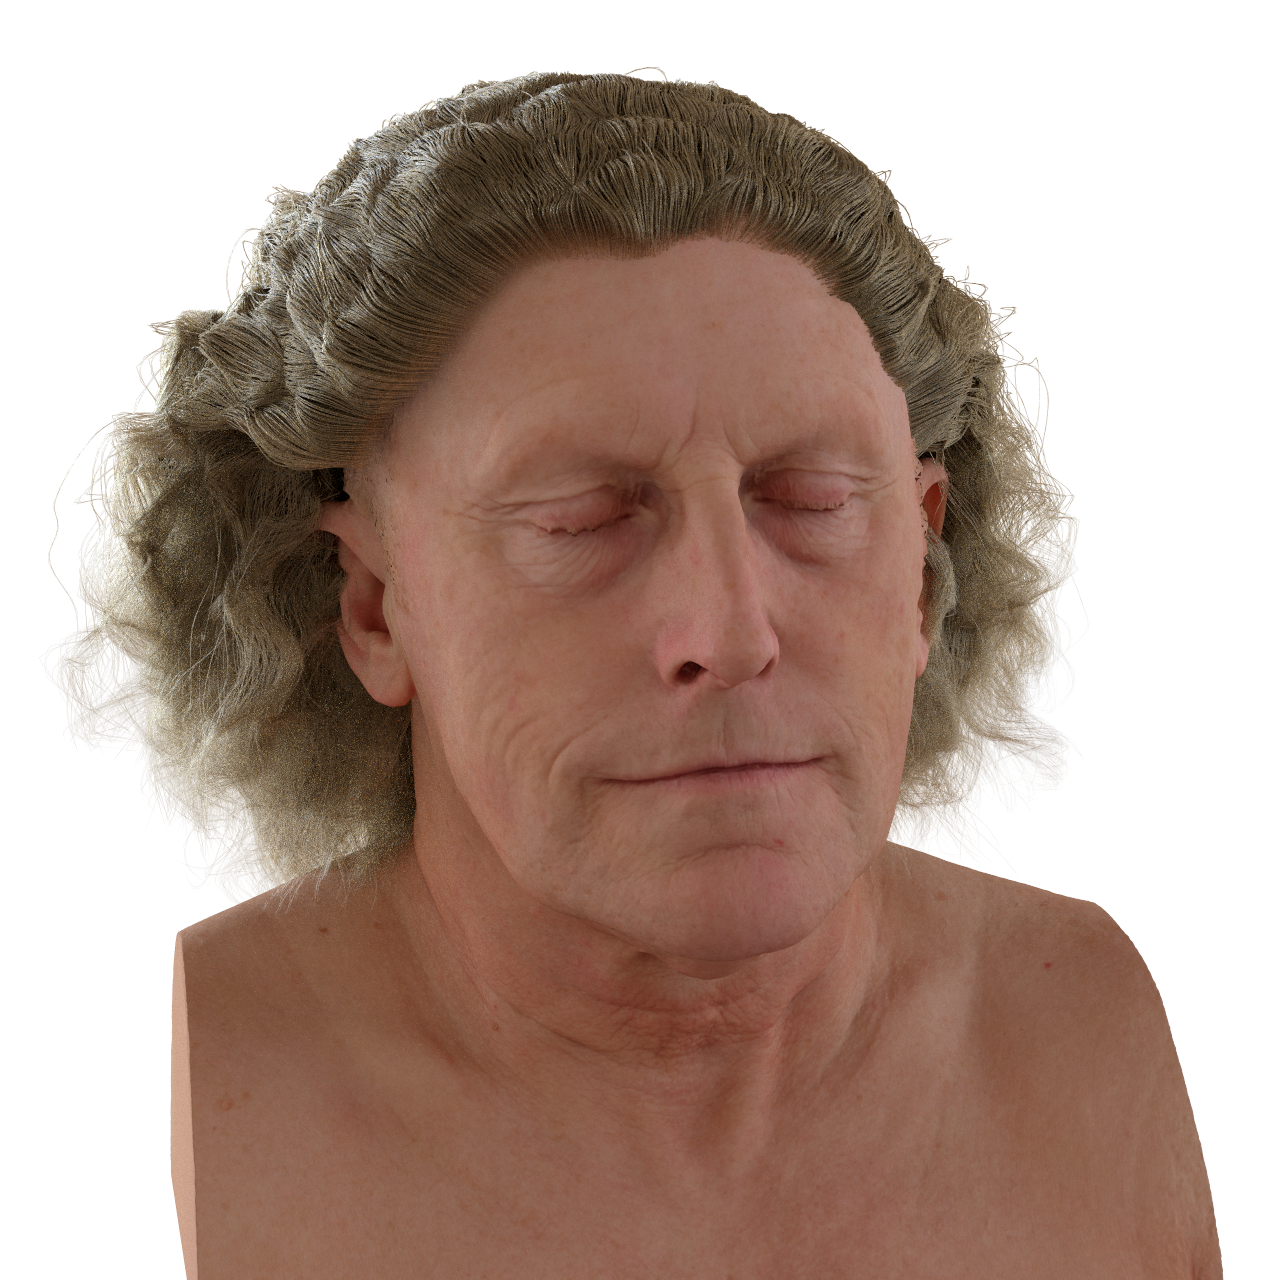
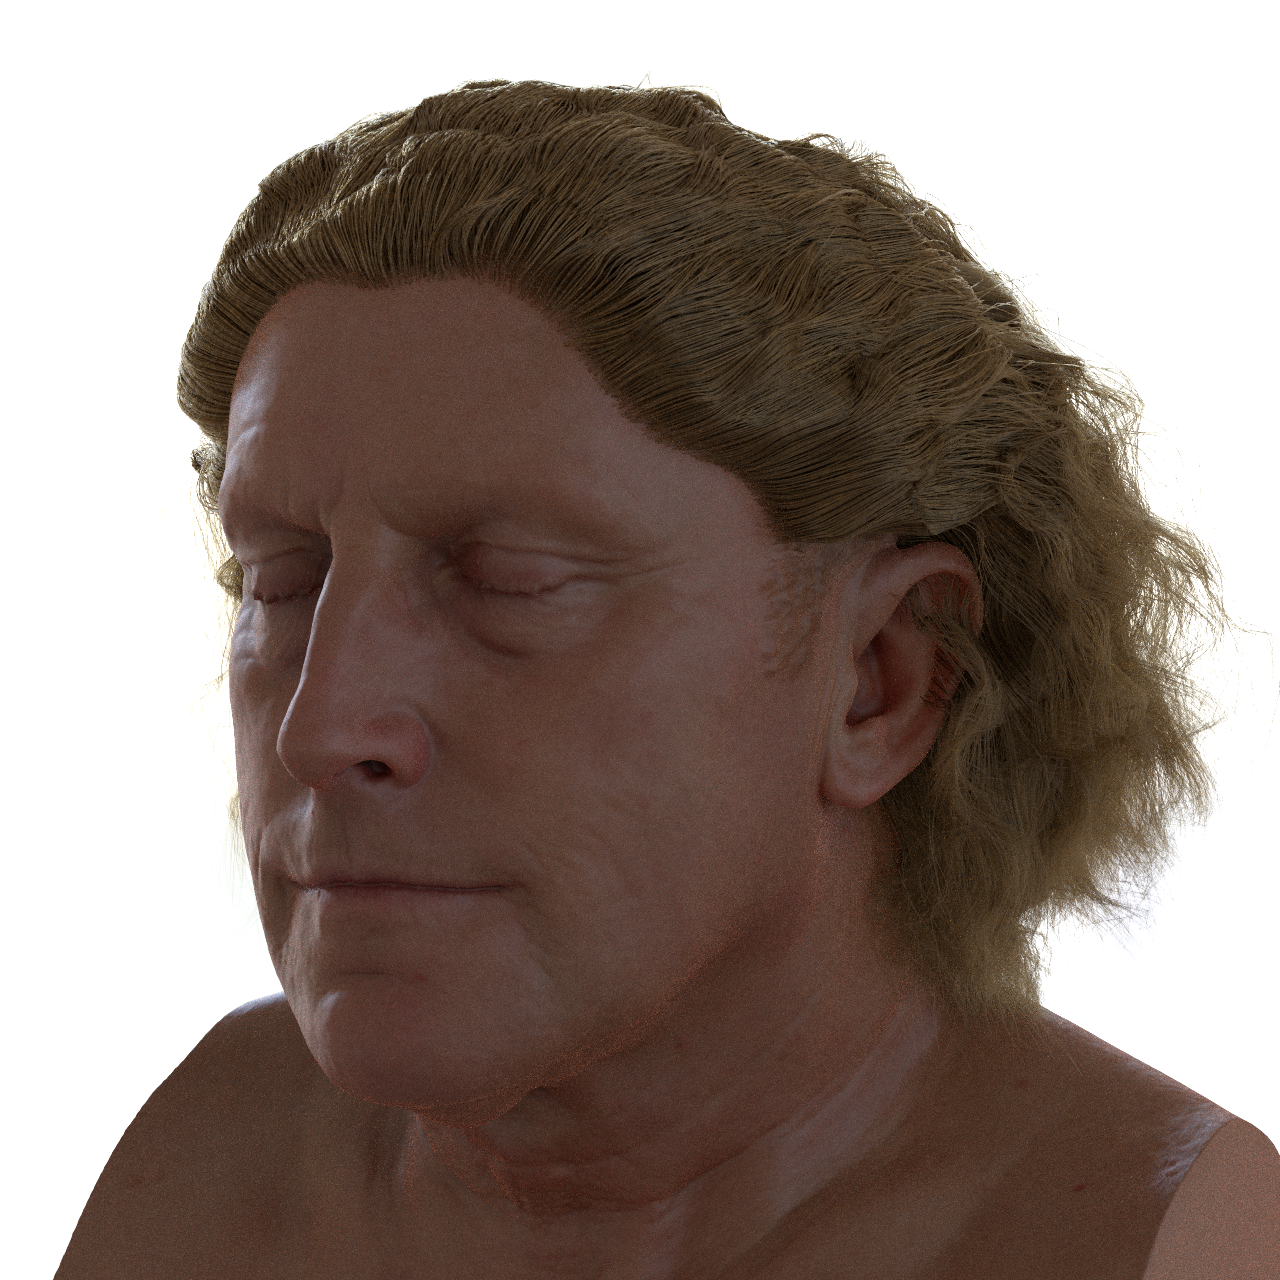
added bold man

diff --git a/README.md b/README.md
@@ -86,7 +86,7 @@ Same scene rendered with and without our extension.
 
 #
 
-![](images/bold_man_1280_1024.png)
+![](images/bold-man_1024_1280.png)
 
 ```bash
 ./bin/yscenetrace tests/bold-man/bold-man.json -o out/bold-man.png -t path -s 1024 -r 1280
